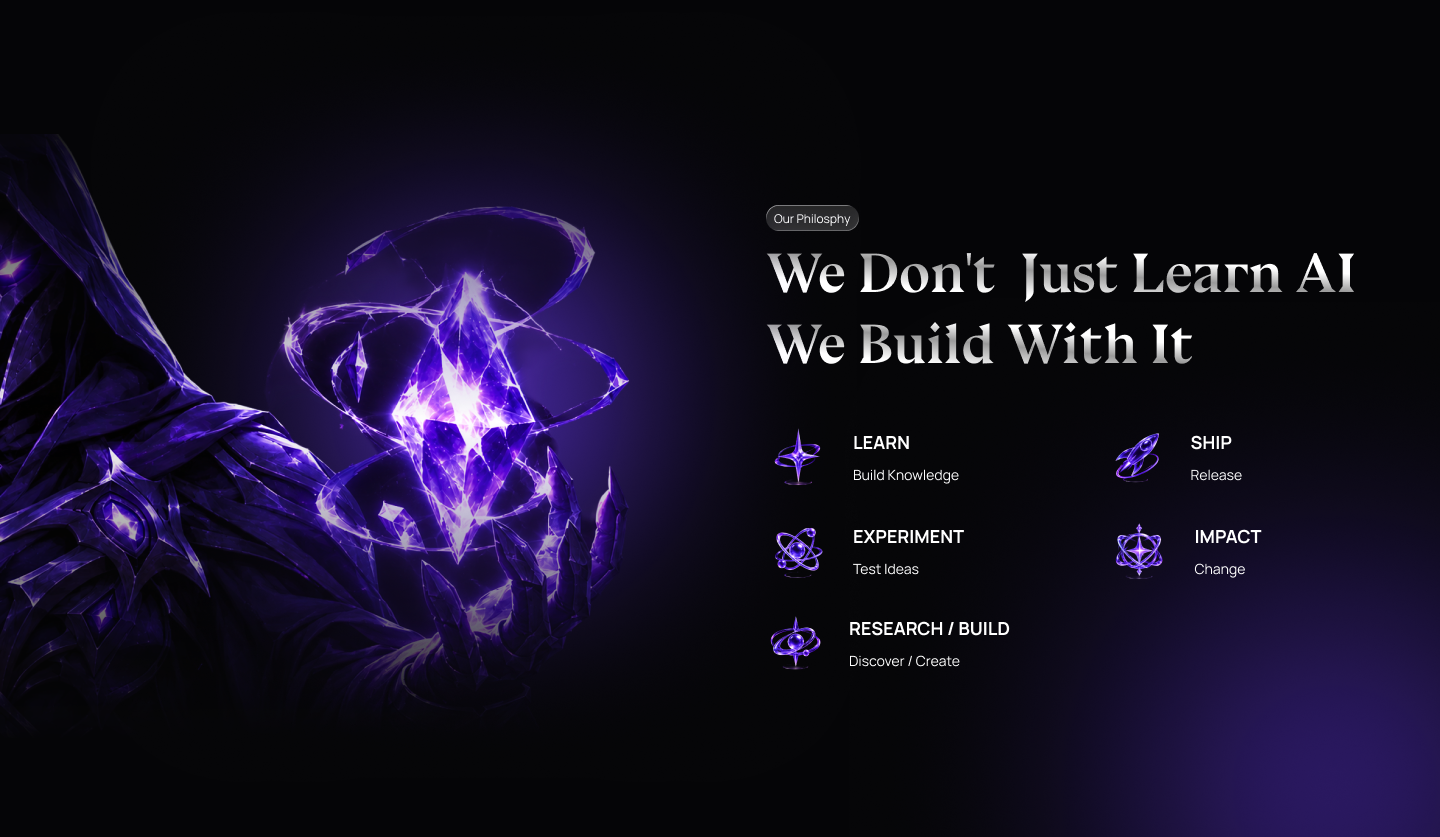
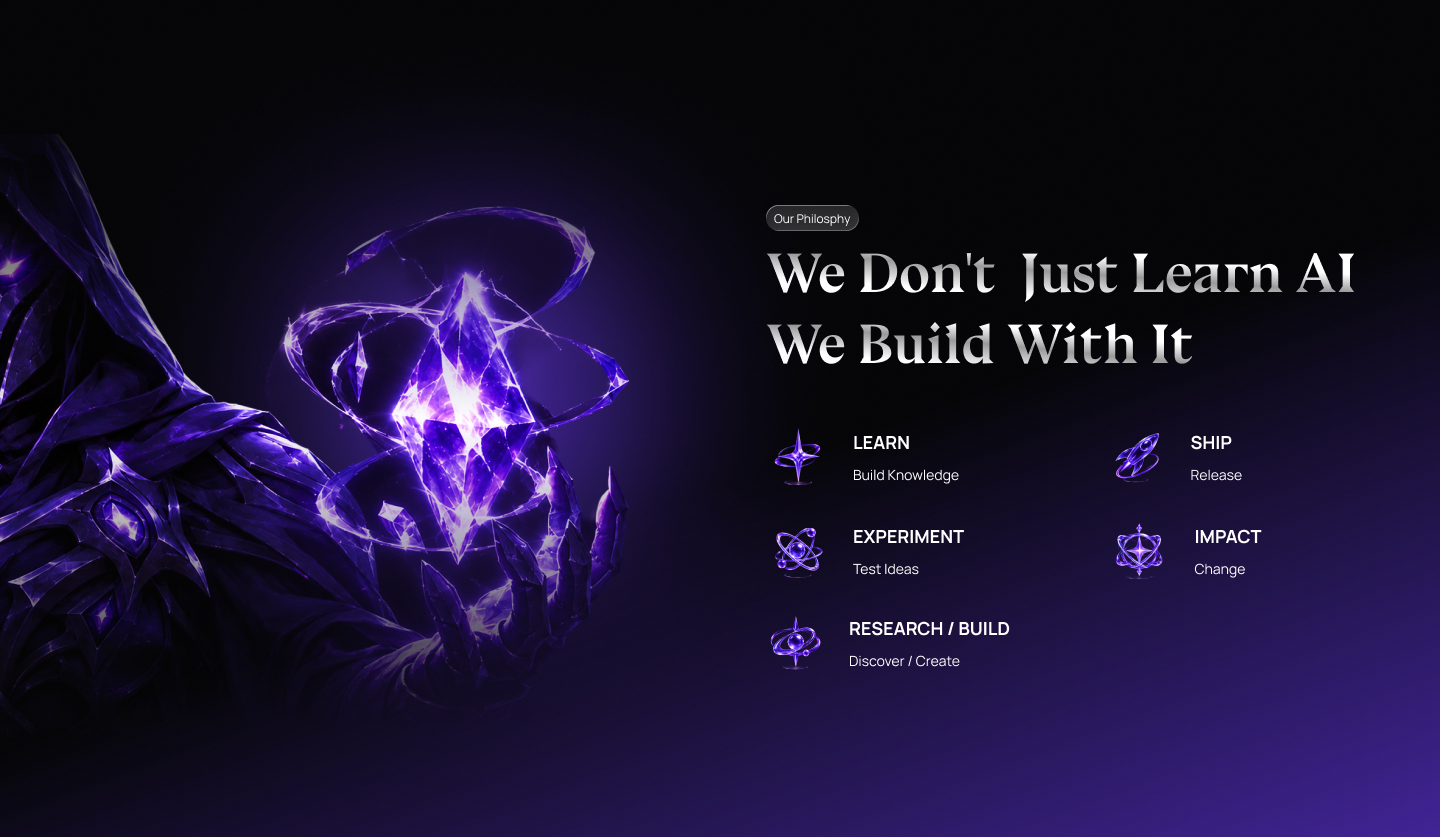
fix(about): blend Philosophy background gradient into Our Ecosystem
About Us Philosophy (1439:4219) Figma fill updated to a gradient so it
meets Our Ecosystem (1439:4258) continuously. Fit from the node PNG:
linear-gradient(159.7deg, #050507 54.82%, #6c3bff 133.76%) (MAE 0.554);
painted on the section to mirror Ecosystem's section-level fill, and the
home-only bottom-right glow (canvas::before) is hidden for the About
variant. Seam max channel delta 9 at 1440/1920/2560. Section MAE 2.041/255
(was 2.316). Homepage Philosophy (1430:2052) unchanged (MAE 0.000).

verify.mjs: align the section before capture + assert the seam; regenerate
reference PNG. All 7 gates + seo pass.

Changed region(s): [[0.0312, 0.3728, 1.0, 1.0]]

diff --git a/docs/kickoff-prompt.md b/docs/kickoff-prompt.md
@@ -10,13 +10,16 @@ per-section berjalan.** Audit **Homepage (`1430:2040`)** Section 1–7 **SELESAI
 `181deg #fff 15% / #999 42% / #fff 79%`; temuan kunci: MCP gradient angle &
 `textAlign` sering LOSSY → fit dari PNG; rim gradient Figma bisa `90deg`/`110deg`
 bukan `135deg`; section origin fraksional bikin artefak screenshot 1px).
-**NEXT TARGET (khusus untuk AI baru): revisi About Us — Our Philosophy
-(`1439:4219`)** — tim minta **background linear-nya disatukan dengan section di
-bawahnya** (Our Ecosystem `1439:4258`), agar transisi antar-section menyatu.
-Komen tim: _"perubahan linear bg agar nyatu sama section bawahnya"_. Fokus:
-**glow presisi, responsive 320→3840, strict 8pt + warna**, 7 gate per section.
-Cara kerja: **Plan per halaman → inventaris semua section (`depth 1`) → 1 section
-per pass + 7 gate per section. JANGAN skip satu section pun.**
+**SELESAI (3 Oct 2026): revisi About Us — Our Philosophy
+(`1439:4219`)** — background linear disatukan dengan Our Ecosystem
+(`1439:4258`): fill gradient Figma `159.7deg #050507 54.82% → #6c3bff 133.76%`
+(fit dari PNG, MAE 0.554), dipasang di section + glow home di-hide untuk varian
+About; seam max Δ 9. **NEXT TARGET (untuk AI baru): audit Partners (`1439:4787`)
+
+- 6 detail HoDS (`864:18857` dkk) — strict per-section.** Fokus:
+  **glow presisi, responsive 320→3840, strict 8pt + warna**, 7 gate per section.
+  Cara kerja: **Plan per halaman → inventaris semua section (`depth 1`) → 1 section
+  per pass + 7 gate per section. JANGAN skip satu section pun.**
 
 ---
 
@@ -197,13 +200,10 @@ Untuk SETIAP halaman, urutannya:
   **DILARANG lompat section / gabung beberapa section dalam satu pass.**
 
 Urutan target (prioritas sekarang):
-  0. **NEXT — About Us: Our Philosophy (`1439:4219`) — REVISI BACKGROUND BLEND.**
-     Tim minta background linear section ini **disatukan dengan section di
-     bawahnya** (Our Ecosystem `1439:4258`) supaya transisi antar-section menyatu.
-     Komen tim: *"perubahan linear bg agar nyatu sama section bawahnya"*.
-     Fokus: **glow presisi, responsive 320→3840, strict 8pt + warna**. Catatan:
-     dulu About Philosophy (`1439:4219`) PIXEL-IDENTIK dengan Homepage Philosophy
-     (`1430:2052`, MAE 0.000) — cek dulu sebelum ubah, dan jangan rusak Homepage.
+  0. **SELESAI (3 Oct 2026) — About Us: Our Philosophy (`1439:4219`) — BACKGROUND
+     BLEND.** Fill gradient `159.7deg #050507 54.82% → #6c3bff 133.76%` (fit PNG),
+     section-level + glow home di-hide untuk varian About; seam max Δ 9.
+     **Homepage (`1430:2052`) tidak berubah.**
   A. Audit Homepage (`1430:2040`) — **SELESAI** (heading gradient dikoreksi ke
      `181deg` 3 Oct 2026). Tetap benchmark; jangan rusak tanpa alasan.
   B. Audit About Us (`1439:4184`) — **SELESAI** (Section 5 tombol GLASS
@@ -211,16 +211,17 @@ Urutan target (prioritas sekarang):
   C. Audit Recruitment (`1436:3505`) — **SELESAI 9/9 (3 Oct 2026)** (Heading
      gradient global, rim Figma `90deg`/`110deg` fit dari PNG, section Snippets
      line-height 67 → tinggi 897). Benchmark presisi; jangan rusak.
-  D. Audit Partners (`1439:4787`) + **6 detail HoDS** (`864:18857` dkk) per-section.
+  D. **NEXT — Audit Partners (`1439:4787`) + 6 detail HoDS** (`864:18857` dkk)
+     per-section. Satu section per pass, 7 gate.
   E. Konten asli (foto member, logo partner, `projects.ts`, tanggal recruitment,
      milestone HoF).
 
 --------------------------------------------------------------------------------
-TARGET NEXT: About Us — Our Philosophy (`1439:4219`) — REVISI BACKGROUND BLEND
+TARGET (SELESAI 3 Oct 2026): About Us — Our Philosophy (`1439:4219`) — BACKGROUND BLEND
 URL: https://www.figma.com/design/JYUzJK1hFqaEwL6DpdDvjp/Web-Community-DS?node-id=1439-4219&t=ACGP2ODKHPTFHpeX-4
 Komen tim (Gembala): *"perubahan linear bg agar nyatu sama section bawahnya"*
 (section bawah = Our Ecosystem `1439:4258`).
-Checklist WAJIB:
+Checklist (SELESAI):
 [ ] 1. `figma_get_figma_data` node `1439:4219` (`depth 1`/arab) + node bawah
        `1439:4258`; ukur boundary (y, warna, gradient) di kedua section dari PNG.
 [ ] 2. Bandingkan background Philosophy sekarang (`<Starfield />`? gradient?) vs
@@ -543,11 +544,11 @@ INSTRUKSI EKSEKUSI UNTUK AI BARU (WAJIB DIIKUTI):
    - Update dokumen (`docs/assets.md`, `docs/ai-handoff.md`, `AGENTS.md`).
    - Commit per fitur; confirm user sebelum push ke origin main.
 3. **Mulai dari mana?**
-   Target pertama **TARGET NEXT — About Us: Our Philosophy (`1439:4219`)** revisi
-   background blend dengan section bawahnya (`1439:4258`): glow presisi, responsive
-   320→3840, strict 8pt + warna; 7 gate per section. Setelah itu **D Partners
-   (`1439:4787`)** + **6 detail HoDS** (`864:18857` dkk). Homepage (`1430:2040`),
-   About Us (`1439:4184`), dan Recruitment (`1436:3505`, 9/9) **sudah audit** —
+   Target **NEXT — D Partners (`1439:4787`)** + **6 detail HoDS**
+   (`864:18857` dkk), strict per-section (satu section per pass, 7 gate).
+   About Us Philosophy (`1439:4219`) background blend **sudah SELESAI 3 Oct 2026**.
+   Homepage (`1430:2040`), About Us (`1439:4184`), dan Recruitment
+   (`1436:3505`, 9/9) **sudah audit** —
    tetap benchmark, jangan rusak tanpa alasan.
    Inventaris dulu (checklist `depth 1` di atas), buat Master Work Plan section
    pertama, cek pixel-identik vs node lain, export PNG referensi, ukur, baru sentuh

diff --git a/docs/ai-handoff.md b/docs/ai-handoff.md
@@ -8,33 +8,31 @@ panjang) → `docs/assets.md` (provenance per section) → file ini.
 
 ### TUGAS BERIKUTNYA UNTUK AI BARU (Next Task)
 
-**★ NEXT = About Us — Our Philosophy (`1439:4219`) — REVISI BACKGROUND BLEND.**
-URL: `https://www.figma.com/design/JYUzJK1hFqaEwL6DpdDvjp/Web-Community-DS?node-id=1439-4219&t=ACGP2ODKHPTFHpeX-4`
-Tim minta background linear section ini **disatukan dengan section di bawahnya**
-(Our Ecosystem `1439:4258`) supaya transisi antar-section menyatu. Komen tim:
-_"perubahan linear bg agar nyatu sama section bawahnya"_.
-Fokus: **glow presisi, responsive 320→3840, strict 8pt + warna**. Checklist WAJIB
-(seperti biasa satu section per pass, 7 gate):
+**★ NEXT = audit Partners (`1439:4787`) + 6 detail HoDS (`864:18857` dkk) — strict
+per-section** (satu section per pass, 7 gate). Urutan: Partners §1–4 (Hero/Our
+Partners/Why DS/Footer), lalu 6 rute `/hods/[id]` (judul hero sudah Bluu Next
+Bold 700 48/57.6 + Title Case; audit spacing/font/MAE). Referensi
+`assets/partners/`, `assets/hods/`. **Wajib Master Work Plan per-section sebelum
+sentuh kode!**
 
-1. `figma_get_figma_data` node `1439:4219` + `1439:4258`; ukur boundary (y, warna,
-   gradient) kedua section dari PNG.
-2. Cek dulu pixel-identik: dulu Philosophy About Us == Homepage Philosophy
-   (`1430:2052`, MAE 0.000). **Jangan rusak Homepage.**
-3. Export node PNG before/after; ukur MAE region boundary (harus mulus, tanpa
-   step/gari warna). Ecosystem atas = `24.87deg #050507 52.9% → #6c3bff 132.9%`.
-4. Glow presisi (cek REST `effects`/`strokes`; emulasi dari PNG). 7 gate + seo.
-5. Update `scripts/verify.mjs` + `docs/assets.md` + `docs/ai-handoff.md` +
-   `AGENTS.md`; commit per section.
+**SELESAI (3 Oct 2026) — About Us — Our Philosophy (`1439:4219`) background blend.**
+Tim memperbarui node: fill kini **gradient** (handles `p0(0.553,0.545) →
+p1(0.798,1.681)`, stops `#050507 → #6c3bff`) supaya menyatu ke Our Ecosystem
+(`1439:4258`). Di-fit dari PNG → `linear-gradient(159.7deg, #050507 54.82%,
+#6c3bff 133.76%)` (fit MAE 0.554; MCP `168deg` lossy). Dipasang di **section**
+(mirror gradient section-level Ecosystem) + glow home (`canvas::before`)
+di-hide untuk varian About. Seam Philosophy↔Ecosystem max Δ **9** di
+1440/1920/2560 (sama dgn delta tepi-kiri referensi sendiri). Reference
+`Philosophy-Revisi-1x.png` diregenerasi; MAE section **2.041/255** (bottom-right
+0.88). **Homepage Philosophy (`1430:2052`) TIDAK berubah** (flat + glow, export
+baru MAE 0.000). `verify.mjs` kini menyelaraskan scroll section sebelum capture +
+assert seam; 7 gate + seo ALL PASS.
 
-Checklist + protokol lengkap: `docs/kickoff-prompt.md` §TARGET NEXT. **Audit, bukan
-tulis ulang**: perbaiki HANYA region yang beda vs PNG node. Selalu regenerasi
-reference dari node terbaru dan cek pixel-identik vs node lain dulu.
-
-**SELESAI (3 Oct 2026) — jangan rusak tanpa alasan:** Homepage (`1430:2040`, §1–7),
-About Us (`1439:4184`, §1–6; `<Starfield />` visi-misi final), **Recruitment
-(`1436:3505`, 9/9: Hero → Who Should Join → What You Will Do → Available Roles →
-Selection Timeline → FAQ → Snippets → CTA → Footer)**. Setelah Philosophy, lanjut
-Partners (`1439:4787`) + 6 detail HoDS (`864:18857` dkk).
+**SELESAI (3 Oct 2026) — jangan rusak tanpa alasan:** Homepage (`1430:2040`,
+§1–7), About Us (`1439:4184`, §1–6; `<Starfield />` visi-misi final),
+**Recruitment (`1436:3505`, 9/9: Hero → Who Should Join → What You Will Do →
+Available Roles → Selection Timeline → FAQ → Snippets → CTA → Footer)**.
+Berikutnya: Partners (`1439:4787`) + 6 detail HoDS (`864:18857` dkk).
 
 **Section 1 Hero (`1436:3506`) — AUDIT PASS (3 Oct 2026).** Tiga temuan & perbaikan:
 (1) static fallback salah gambar — node kini pakai IMAGE fill 1672×941 dengan crop
@@ -155,8 +153,9 @@ Section 1–6 lolos 7 gate. Temuan & fix: **Section 5 Our Team "See More"**
 implementasi lama `#161616` + highlight terbaca terlalu gelap (interior ~22 vs
 ~46). Diperbaiki di `OurTeam.astro` (inset ring + sheen `::before` + `blur(6px)`)
 → section MAE **2.828 → 2.770**, region tombol 29.3 → **17.85** (floor = AA teks
-Manrope lintas-renderer). Section 1 Hero, 2 visi misi, 3 Philosophy (=home, ref
-MAE 0.000), 4 Our Ecosystem, 6 Footer PASS tanpa perubahan. Export ulang node
+Manrope lintas-renderer). Section 1 Hero, 2 visi misi, **3 Philosophy
+(background gradient blend 3 Oct 2026 — no longer identical to home)**, 4 Our
+Ecosystem, 6 Footer PASS tanpa perubahan. Export ulang node
 `1439:4185`/`1439:4305` = referensi (MAE 0.00). **JANGAN sentuh background
 bintang hidup visi-misi (`<Starfield />`).** Link: `https://www.figma.com/design/JYUzJK1hFqaEwL6DpdDvjp/Web-Community-DS?node-id=1439-4184`
 Inventaris (frame `1439:4184`, `depth 1` — verifikasi ulang sebelum mulai):

diff --git a/AGENTS.md b/AGENTS.md
@@ -408,15 +408,20 @@ exclude`), not `border` (the HoF Project shot sat at 929 vs the 933 frame and
   footer MAE **7.7071 → 7.658**; region ter-align brand 2.7 / nav 3.8 / contact 5.0.
   **RECRUITMENT SELESAI — 9/9 section diaudit.** Berikutnya: audit Partners
   (`1439:4787`) + 6 detail HoDS (`864:18857` dkk).
-- **★ NEXT (untuk AI baru): About Us — Our Philosophy (`1439:4219`) — REVISI
-  BACKGROUND BLEND.** Tim minta background linear section ini **disatukan dengan
-  section di bawahnya** (Our Ecosystem `1439:4258`) supaya transisi menyatu.
-  Komen tim: _"perubahan linear bg agar nyatu sama section bawahnya"_.
-  Node: `https://www.figma.com/design/JYUzJK1hFqaEwL6DpdDvjp/Web-Community-DS?node-id=1439-4219&t=ACGP2ODKHPTFHpeX-4`.
-  Fokus: **glow presisi, responsive 320→3840, strict 8pt + warna**, 7 gate.
-  Catatan: dulu Philosophy About Us (`1439:4219`) **pixel-identik** dengan Homepage
-  Philosophy (`1430:2052`, MAE 0.000) — cek dulu; jangan rusak Homepage. Checklist
-  di `docs/kickoff-prompt.md` §TARGET NEXT; SOP di `docs/pixel-precision-sop.md` §9.
+- **★ NEXT (untuk AI baru): audit Partners (`1439:4787`) + 6 detail HoDS
+  (`864:18857` dkk) — strict per-section.** Satu section per pass, 7 gate.
+  **Wajib Master Work Plan per-section sebelum sentuh kode.**
+- **SELESAI (3 Oct 2026): About Us — Our Philosophy (`1439:4219`) — REVISI
+  BACKGROUND BLEND.** Tim minta background linear disatukan dengan Our Ecosystem
+  (`1439:4258`). Figma kini memberi node fill **gradient** (handles
+  `p0(0.553,0.545) → p1(0.798,1.681)`, stops `#050507 → #6c3bff`); di-fit dari PNG
+  → `linear-gradient(159.7deg, #050507 54.82%, #6c3bff 133.76%)` (fit MAE 0.554;
+  MCP `168deg` lossy). Dipasang di **section** (mirror gradient section-level
+  Ecosystem), glow home (`canvas::before`) di-hide untuk varian About. Seam
+  Philosophy↔Ecosystem max Δ **9** di 1440/1920/2560. Reference
+  `Philosophy-Revisi-1x.png` diregenerasi; MAE section **2.041/255**. **Homepage
+  Philosophy (`1430:2052`) TIDAK berubah** (flat + glow, MAE 0.000). `verify.mjs`
+  menyelaraskan scroll sebelum capture + assert seam. 7 gate + seo ALL PASS.
 - **STATUS RINGKAS (3 Oct 2026).** **Homepage 100% selesai** (Hero → Our
   Philosophy → What We Do → Choose Your Domain/HoDS → Our Project → CTA, node
   `1430:2040`). **Recruitment Page 100% selesai** (node `1436:3505`). **About Us
@@ -472,18 +477,20 @@ exclude`), not `border` (the HoF Project shot sat at 929 vs the 933 frame and
   Section MAE **1.910/255** (vision 3.11, list 3.35, tarot 1.16, bg 0.49).
   Geometri Chromium exact. Semua 6 gate ALL PASS. Referensi:
   `assets/about-us/visi-misi/VisiMisi-Revisi-1x.png`.
-- **About Us Section 3: Philosophy (`1439:4219`) — 100% SELESAI (2 Oct 2026).**
-  Node baru About Us Philosophy **identik dengan homepage Philosophy**
-  (`1430:2052`): reference `Philosophy-Revisi-1x.png` MAE **0.000** vs
-  `Home-Philosophy-Revisi-1x.png`. Frame 1440×837, fill `#050507`. Content frame
+- **About Us Section 3: Philosophy (`1439:4219`) — SELESAI (2 Oct 2026; background
+  blend 3 Oct 2026).** Node About Us Philosophy **tidak lagi identik** dengan
+  homepage Philosophy (`1430:2052`): Figma kini memberi fill **gradient**
+  `159.7deg #050507 54.82% → #6c3bff 133.76%` (fit dari PNG, MAE 0.554) supaya
+  menyatu ke Our Ecosystem (`1439:4258`); glow home (`canvas::before`) di-hide
+  untuk varian About. Homepage tetap flat + glow (MAE 0.000). Reference
+  `Philosophy-Revisi-1x.png` diregenerasi. Frame 1440×837. Content frame
   `1439:4221` 591×468 di `(766, 205)` (gap 48): eyebrow "Our Philosphy" 93×26,
   heading Bluu Next Bold 700 56/67.2 2 baris ("We Don't Just Learn AI" / "We
   Build With It", gap 4) di `(766, 239)`, grid prinsip 591×248 (`1439:4228`,
   gap 30/92), 5 item LEARN/SHIP/EXPERIMENT/IMPACT/RESEARCH BUILD. Artwork =
-  sorcerer + glow yang sama dengan home. `Philosophy.astro` disatukan: varian
-  `about` kini memakai layout & artwork home (hapus gradient lama &
-  `canvas::before:none`). Section MAE **2.316/255** (artwork 1.92, content 2.89).
-  Geometri Chromium exact. Semua 6 gate ALL PASS. Referensi:
+  sorcerer yang sama dengan home. Section MAE **2.041/255** (bottom-right 0.88).
+  Seam Philosophy↔Ecosystem max Δ **9** (1440/1920/2560). Geometri Chromium
+  exact. Semua 7 gate + seo ALL PASS. Referensi:
   `assets/about-us/philosophy/Philosophy-Revisi-1x.png`.
 - **About Us Section 4: Our Ecosystem (`1439:4258`) — 100% SELESAI (2 Oct 2026).**
   Frame `1439:4258` (1440×874, column, padding 80px, gap 116px, gradient

diff --git a/docs/assets.md b/docs/assets.md
@@ -772,27 +772,35 @@ fitting the rendered pixels gives an effective CSS gradient of
   unchanged vs the previous **1.910** (vision 3.11, list 3.35, tarot 1.16). All 6
   gates pass.
 
-## About Us — Philosophy (2 October 2026)
+## About Us — Philosophy (2 October 2026, background-blend revision 3 Oct 2026)
 
 - New Figma page `1439:4184`, section **`1439:4219`** ("Philosophy Section",
-  1440 × 837, fill `#050507`). The exported reference
-  `assets/about-us/philosophy/Philosophy-Revisi-1x.png` is **pixel-identical
-  (MAE 0.000)** to the homepage Philosophy reference
-  `assets/assets home page/ourphilosophy/Home-Philosophy-Revisi-1x.png` — the
-  About section is the same design as `1430:2052`.
+  1440 × 837). The fill is now a **gradient** (Figma handles
+  `p0(0.553,0.545) → p1(0.798,1.681)`, stops `#050507 → #6c3bff`) so the section
+  **blends into Our Ecosystem** (`1439:4258`) below. Fitted from the node PNG:
+  `linear-gradient(159.7deg, #050507 54.82%, #6c3bff 133.76%)` (fit
+  **MAE 0.554** on pure-background pixels; MCP's normalised `168deg` is lossy, as
+  documented in the SOP). Painted on the **section** (not the canvas) to mirror
+  Our Ecosystem's section-level gradient — the seam stays continuous
+  (max channel Δ **9** at 1440/1920/2560, identical to the reference's own
+  left-edge delta). The About node has **no** standalone bottom-right glow
+  ellipse (the home node `1430:2053` does), so
+  `.philosophy.is-about .canvas::before { display: none }`.
+- **Homepage Philosophy (`1430:2052`) is unchanged** — flat `#050507` + glow
+  (fresh export MAE **0.000**). Do not merge the two variants again.
+- `Philosophy.astro`: the `about` variant uses the same layout/artwork as home
+  but the section carries the gradient and the home glow is hidden. The uncapped
+  wide-screen `zoom` on the canvas is retained.
+- Reference `assets/about-us/philosophy/Philosophy-Revisi-1x.png` regenerated from
+  node `1439:4219`. Chromium geometry exact (section 1440 × 837; content
+  `(766, 205, 591, 468)`; principles `(766, 425, 591, 248)`). Section MAE
+  **2.041/255** (bottom-right region 0.88). All 6 gates pass.
 - Content frame `1439:4221` (591 × 468) at `(766, 205)`, `gap: 48px`: eyebrow
   `1439:4223` "Our Philosphy" (93 × 26, glass pill), heading `1439:4226`/`4227`
   ("We Don't Just Learn AI" / "We Build With It", Bluu Next **Bold 700**
   56 / 67.2, `gap: 4px`), principles grid `1439:4228` (591 × 248, grid
   `30px 92px`) with 5 items (LEARN / SHIP / EXPERIMENT / IMPACT / RESEARCH
   BUILD). Artwork = the same sorcerer + glow as the homepage.
-- `Philosophy.astro` was unified: the `about` variant now uses the home layout
-  and artwork (the old `linear-gradient(163deg…)` canvas fill and
-  `canvas::before { display:none }` were removed; the wide-screen uncapped zoom
-  for `.is-about` is retained). Homepage rendering is unchanged.
-- Chromium geometry exact (section 1440 × 837; content
-  `(766, 205, 591, 468)`; principles `(766, 425, 591, 248)`). Section MAE
-  **2.316/255** (artwork 1.92, content 2.89). All 6 gates pass.
 
 ## About Us — Our Ecosystem (2 October 2026)
 
@@ -915,6 +923,13 @@ rgba(108,59,255,.3) 50%, #0e0626)`; info frame `…;1260:16770` (222 × 94 at
   Philosophy↔Ecosystem seam stays continuous (channel Δ ≤ 2 at 1440/1920/2560).
   `verify.mjs` asserts the zoom, canvas width, artwork left/right containment at
   1920px and full-bleed (left 0 / right = clientWidth) at 3200px.
+- **Philosophy gradient re-fitted (3 Oct 2026).** The team updated node
+  `1439:4219` in the new file to a gradient (handles `p0(0.553,0.545) →
+p1(0.798,1.681)`) so About Philosophy blends into Our Ecosystem. The current
+  CSS is `linear-gradient(159.7deg, #050507 54.82%, #6c3bff 133.76%)` (fit
+  MAE 0.554), painted on the **section** (not the canvas) to mirror the
+  Ecosystem section-level fill; the home glow (`canvas::before`) is hidden for
+  the About variant. All wide-screen `zoom`/containment assertions still pass.
 - At 1051–1284px the five columns shrink proportionally within the section,
   while the pipeline keeps its 426px frame: all connector bottoms remain at
   y=782 and the baseline at y=799. At 701–1050px the
